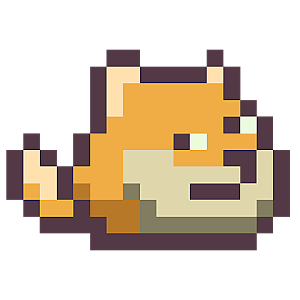
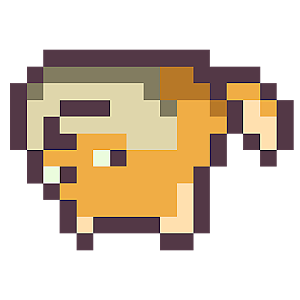
shiba ~

diff --git a/flappy/flappy2.js b/flappy/flappy2.js
@@ -2,7 +2,7 @@ enchant();
 
 var PIPE = 'images/pipeLower.png';
 var PIPE_UPPER = 'images/pipeUpper.png';
-var SHIBA = 'images/shiba.png';
+var SHIBA = 'images/shiba0.png';
 var BG = 'images/bg.png';
 
 window.onload = function() {
@@ -31,7 +31,7 @@ window.onload = function() {
     var SceneGame = Class.create(Scene, {
          // The main gameplay scene.     
         initialize: function() {
-            var game, pipeBG;
+            var game, pipeBG, shiba;
             // 1 - Call superclass constructor
             Scene.apply(this);
             // 2 - Access to the game singleton instance
@@ -44,8 +44,6 @@ window.onload = function() {
             label.color = 'white';
             label.font = '16px strong';
 
-
-
             bg = new Sprite(950, 400);
             bg.image = game.assets[BG];
             // 4 - Add child nodes        
@@ -57,6 +55,14 @@ window.onload = function() {
 
             // Update
             this.addEventListener(Event.ENTER_FRAME, this.update); //update ice
+
+            // Shiba
+            shiba = new Shiba();
+            // shiba.x = game.width/2 - shiba.width/2;
+            shiba.x = 0;
+            shiba.y = 70;
+            this.shiba = shiba;
+            this.addChild(shiba);
 
         },
 
@@ -76,6 +82,32 @@ window.onload = function() {
 }
     });
 
+     // Shiba
+    var Shiba = Class.create(Sprite, {
+        // The player character.     
+        initialize: function() {
+            // 1 - Call superclass constructor
+            Sprite.apply(this,[270, 210]);
+            this.image = Game.instance.assets[SHIBA];
+            this.scaleX = 0.3;
+            this.scaleY = 0.3;
+            // 2 - Animate
+            this.animationDuration = 0;
+            this.addEventListener(Event.ENTER_FRAME, this.updateAnimation);
+        },
+        updateAnimation: function (evt) {        
+            this.animationDuration += evt.elapsed * 0.001;       
+            if (this.animationDuration >= 0.25) {
+                this.frame = (this.frame + 1) % 2;  //frame1 = up , frame2 = down
+                this.animationDuration -= 0.25;
+            }
+        },
+        switchToLaneNumber: function(lane){     
+            var targetX = 160 - this.width/2 + (lane-1)*90;
+            this.x = targetX;
+        }       
+    });
+
     // Pipe Lower
     var PipeBG = Class.create(Sprite, {
         //create pipe 
@@ -84,7 +116,7 @@ window.onload = function() {
             Sprite.apply(this,[400, 400]);
             this.image  = Game.instance.assets[PIPE];   
             this.scaleX = 0.3;
-            this.scaleY = 0.23 + rand * 0.1;   
+            this.scaleY = 0.13 + rand * 0.1;   
             this.rotationSpeed = 0;
             this.addEventListener(Event.ENTER_FRAME, this.update);
             this.x = 950; // create pipe begin from right of window
@@ -112,7 +144,7 @@ window.onload = function() {
             Sprite.apply(this,[400, 400]);
             this.image  = Game.instance.assets[PIPE_UPPER];   
             this.scaleX = 0.3;
-            this.scaleY = 0.05 + rand * 0.1;   
+            this.scaleY = 0.02 + rand * 0.1;   
             this.rotationSpeed = 0;
             this.addEventListener(Event.ENTER_FRAME, this.update);
             this.x = 950; // create pipe begin from right of window
